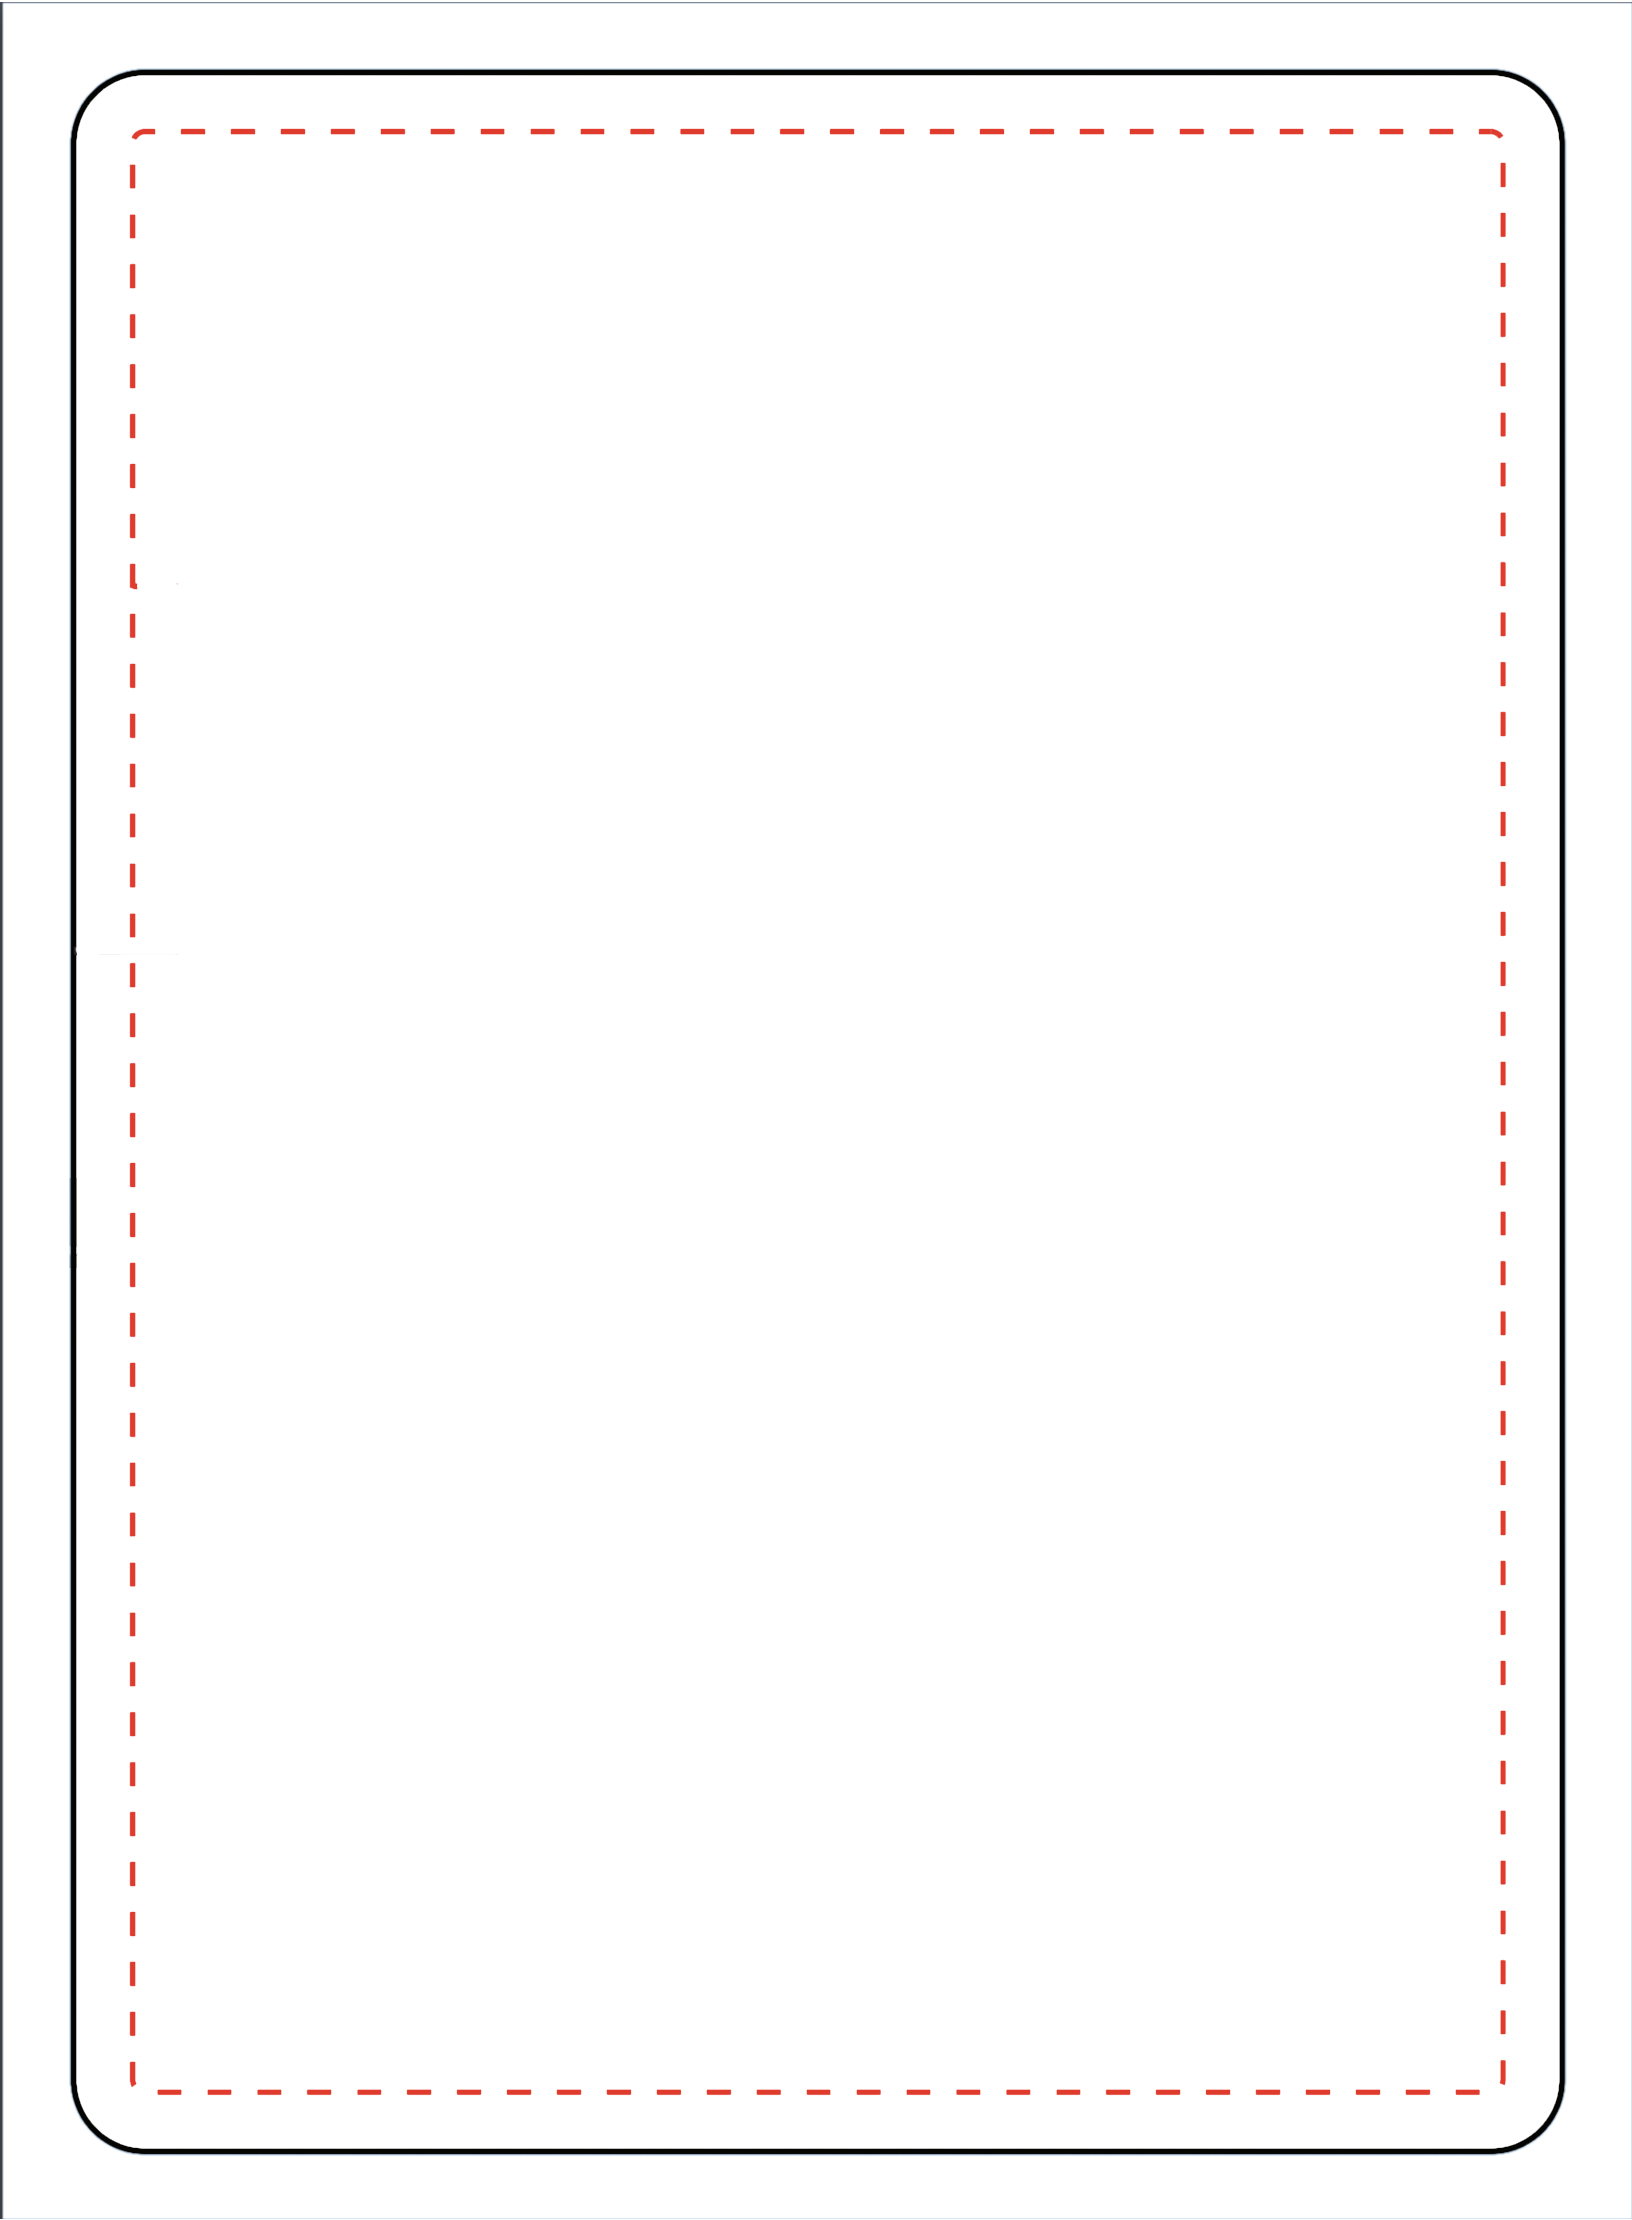
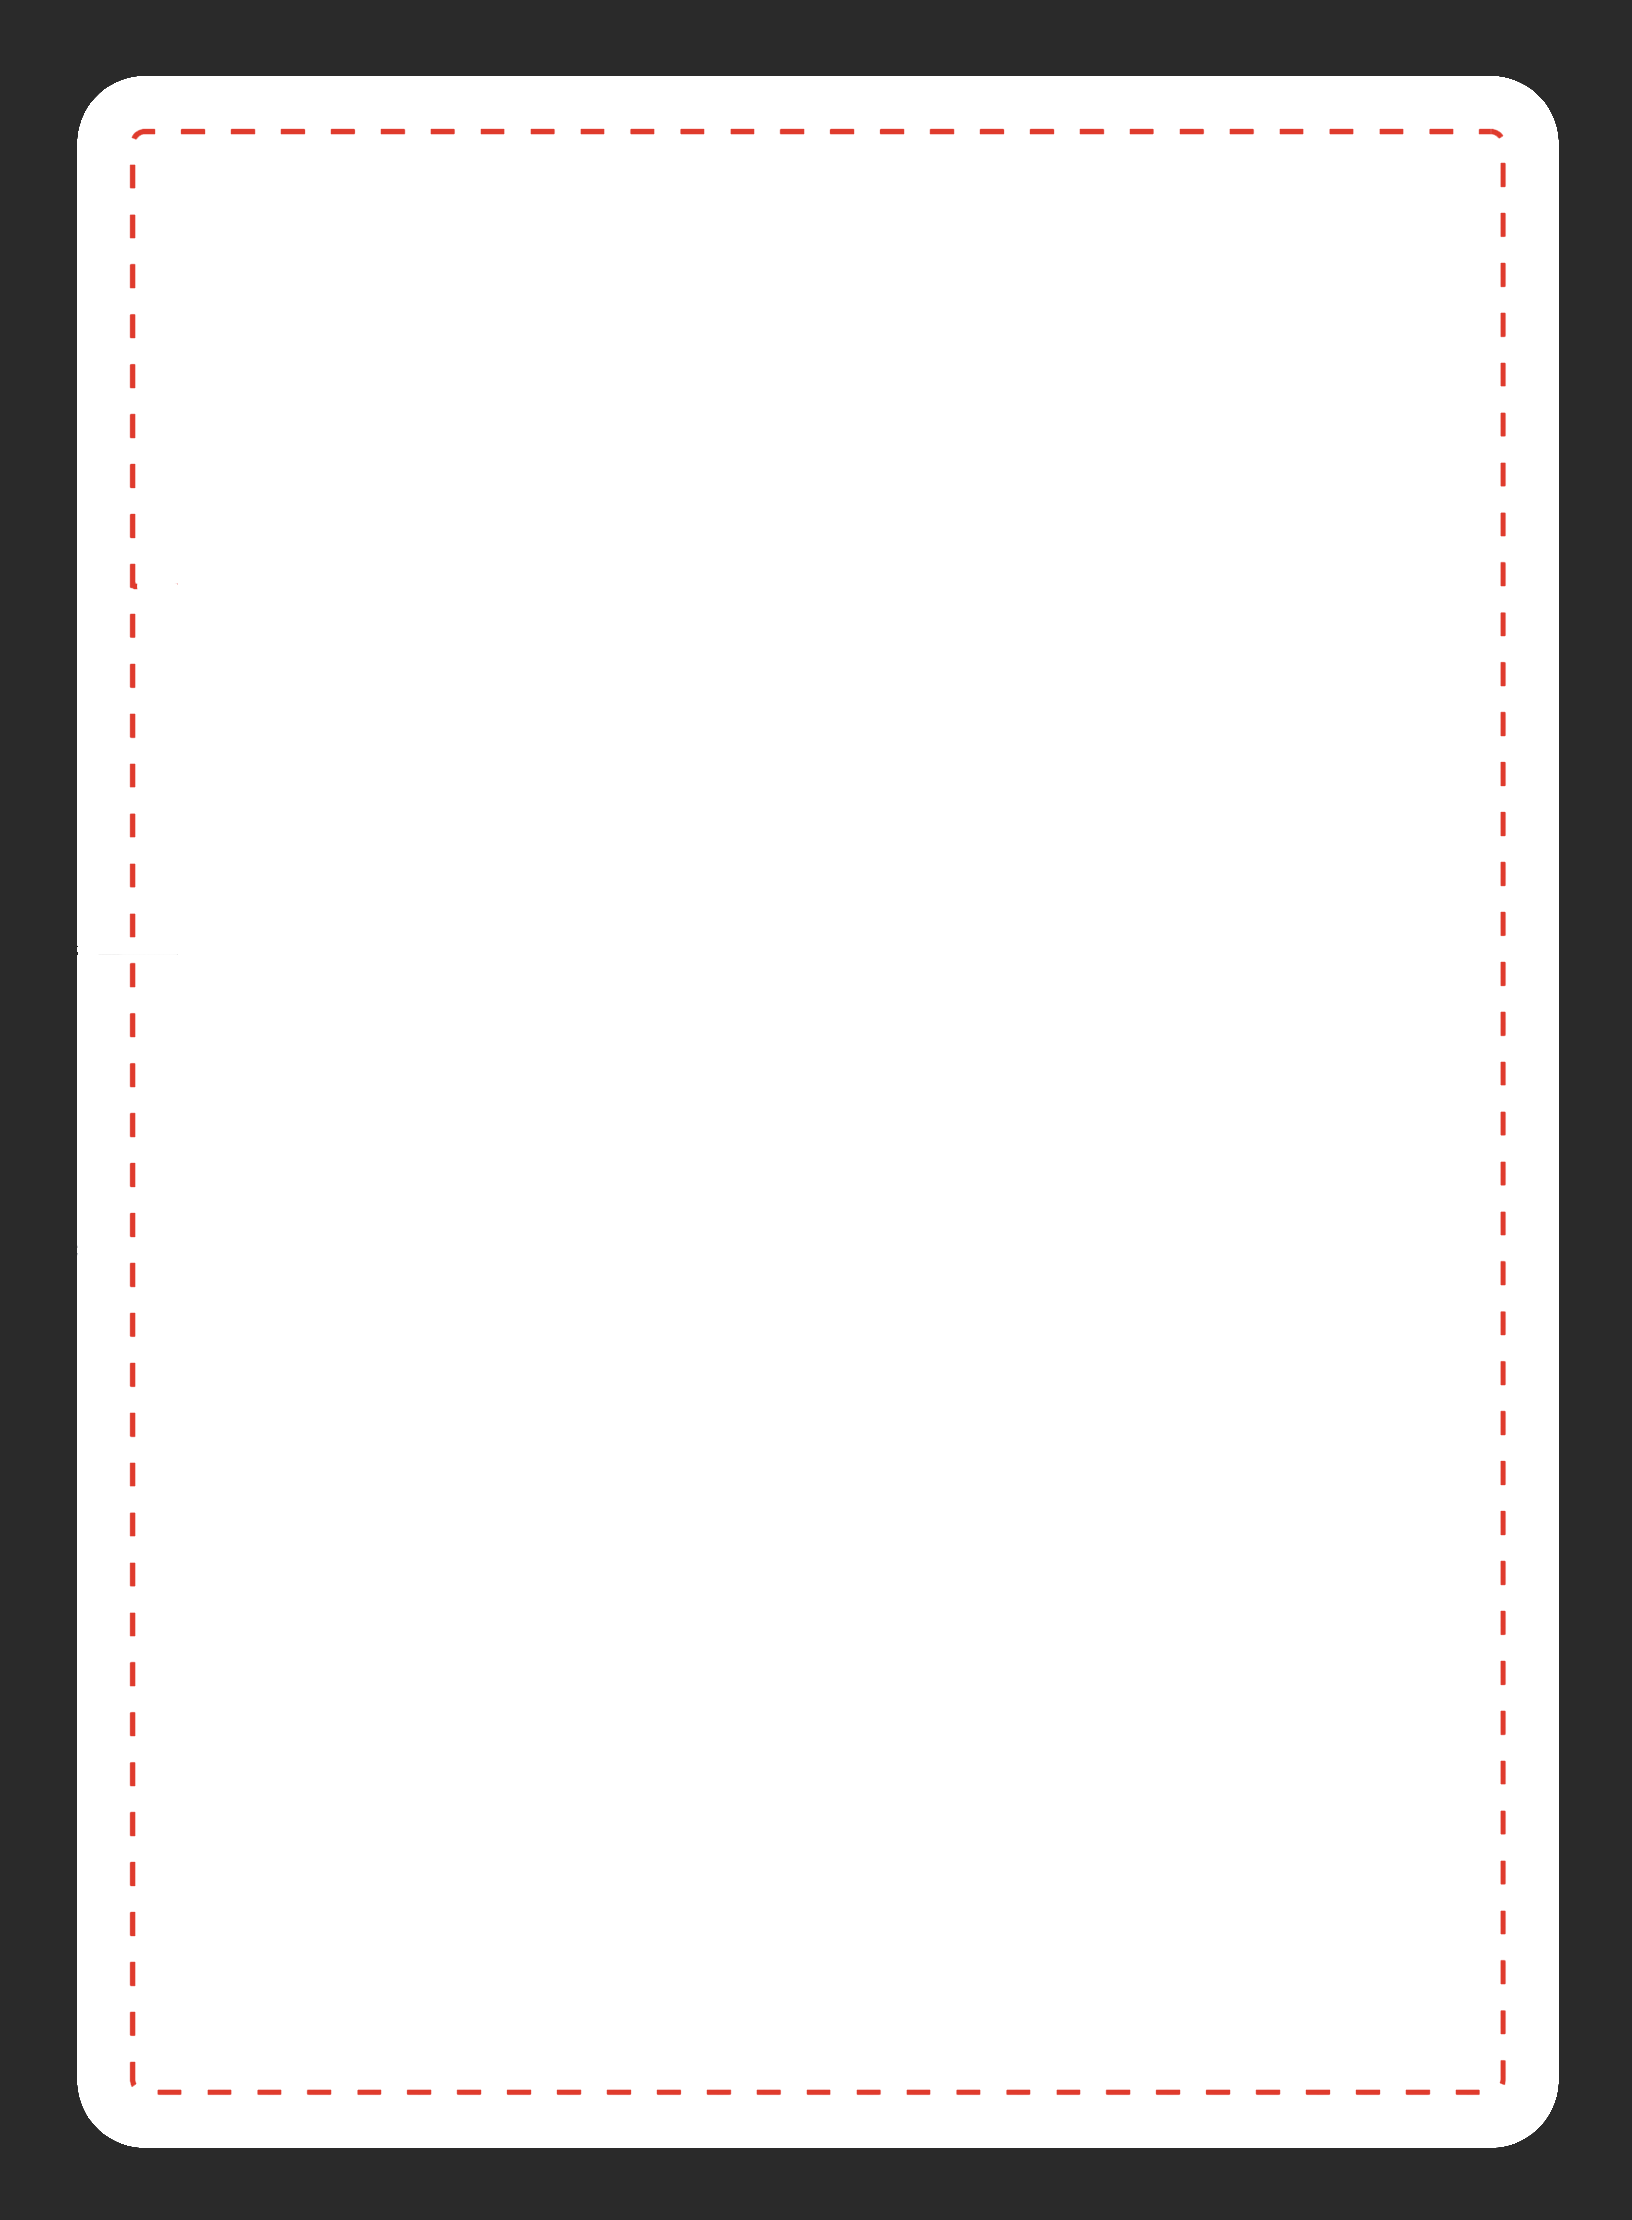
Add a border

Changed region(s): [[0.0, 0.0, 1.0, 1.0]]

diff --git a/pirates-2/test.html b/pirates-2/test.html
@@ -7,7 +7,7 @@
 
 <style>
     html {
-        background-color: rgb(26, 23, 23);
+        background-color: 2a2a2a;
         -webkit-print-color-adjust: exact;
         -webkit-filter: opacity(1);
         color: #fff;
@@ -28,6 +28,16 @@
         perspective: 1000px;
     }
 
+    .mask {
+        border: 7px solid #000000;
+        border-radius: 12px;
+        position: absolute;
+        top: 3mm;
+        left: 3mm;
+        bottom: 2.8mm;
+        right: 3mm;
+    }
+
     .inner {
         position: relative;
         width: 100%;
@@ -35,6 +45,7 @@
         text-align: center;
         transition: transform 0.8s;
         transform-style: preserve-3d;
+        background-color: #000;
     }
 
     .card:hover .inner {
@@ -42,9 +53,10 @@
     }
 
     .card .bg {
-        width: 69mm;
-        height: 94mm;
-        margin-top: 0mm;
+        /* 63 88 is poker size */
+        width: 61mm;
+        height: 86mm;
+        margin-top: 4mm;
         /* border-radius: 5px; */
     }
 
@@ -673,6 +685,7 @@
                     <div class="mpc">
                         <img src="mpc.png" />
                     </div>
+                    <div class="mask"></div>
                 </div>
                 <div class="back">
                     <img src="back.png" />
